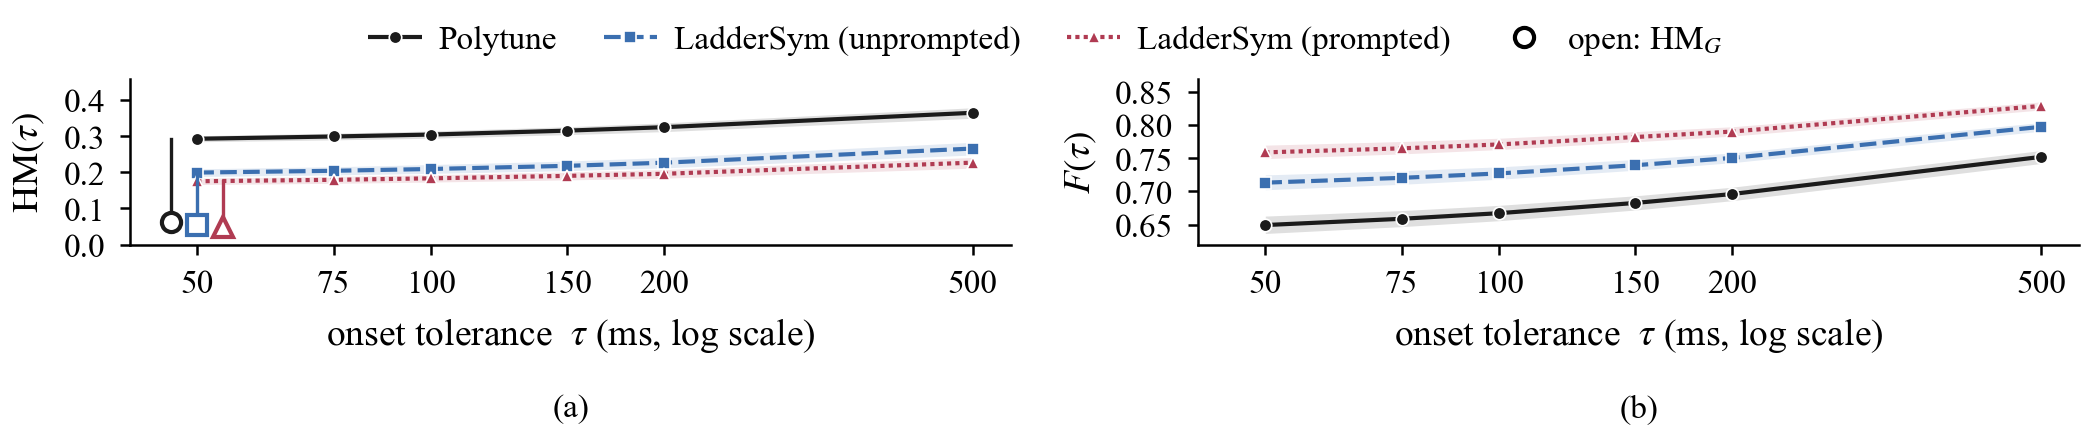
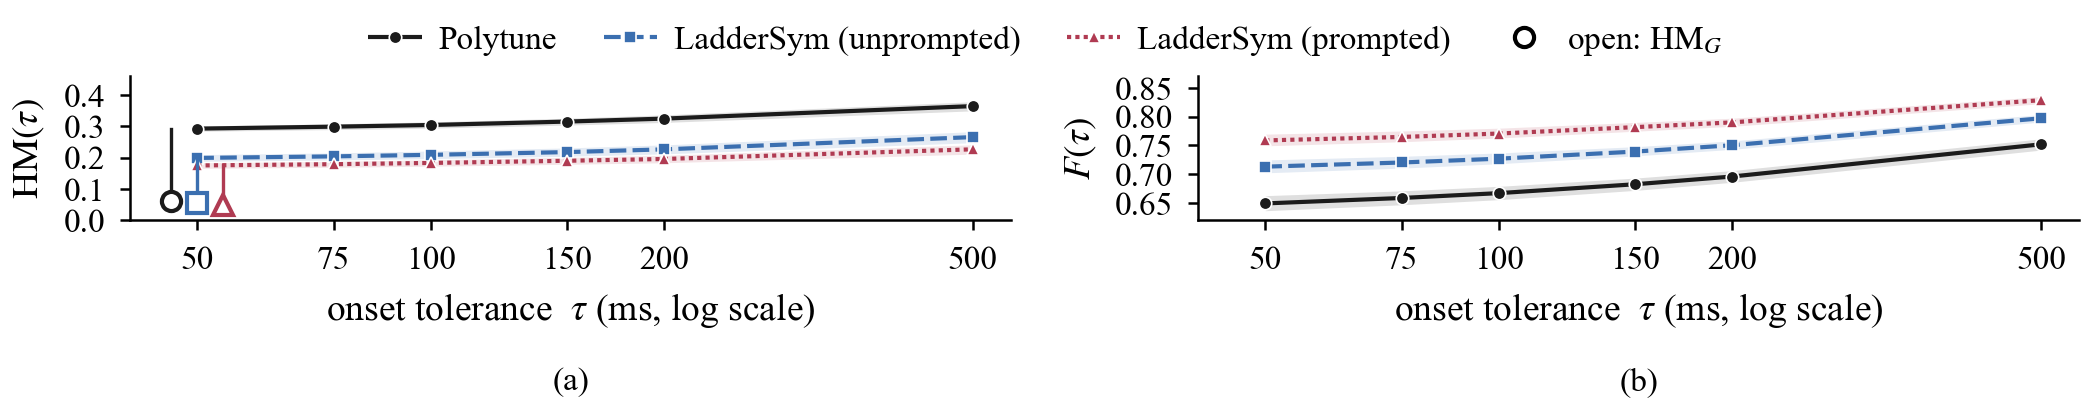
figs + gate: Fig. 2 at 1.36 in; pins for the 4.9x basis and Bernoulli flips

diff --git a/experiments/verify_shipped.py b/experiments/verify_shipped.py
@@ -1447,9 +1447,9 @@ def check_letter_prose() -> None:
         s_in("EI achieved mix", "$%.2f/%.2f/%.2f\\%%$ ($%s$"
              % (mix["substitution"] * 100, mix["insertion"] * 100,
                 mix["omission"] * 100, inj_str))
-        s_in("EI flippable population", "$q=%.1f$ of the $%s$ non-substitution label events"
-             % (val["_provenance"]["q_planted"],
-                "{:,}".format(val["flippable"]).replace(",", "{,}")))
+        s_in("EI flippable population", "each of the $%s$ non-substitution label events independently with probability $q=%.1f$"
+             % ("{:,}".format(val["flippable"]).replace(",", "{,}"),
+                val["_provenance"]["q_planted"]))
         s_in("EI planted flips", "planting $%s$ misclassifications"
              % "{:,}".format(val["planted_flips"]).replace(",", "{,}"))
         n_nonsub = summ["totals"]["ins"] + summ["totals"]["om"] + 2 * summ["totals"]["neg"]
@@ -1588,7 +1588,8 @@ def check_letter_prose() -> None:
     # pre-collapse reference label events, EI over E (the basis the letter names)
     dens = val["n_ref_events"] / (45367 + 12258)
     assert_in("EI/E reference-label ratio",
-              "and $%.1f\\times$ as many reference label events" % dens)
+              "and $%.1f\\times$ as many pre-collapse reference label events as MAESTRO-E ($%s$ vs $%s$)"
+              % (dens, "{:,}".format(val["n_ref_events"]).replace(",", "{,}"), "{:,}".format(45367 + 12258).replace(",", "{,}")))
     ap_ = _load(os.path.join(HERE, "results", "cluster", "anchor_pitch_sensitivity.json"))
     semi = [100 * ap_[st]["unfounded_share"]["semitone"] for st in stems]
     octv = [100 * ap_[st]["unfounded_share"]["octave"] for st in stems]

diff --git a/experiments/figs/fig2_measured.py b/experiments/figs/fig2_measured.py
@@ -107,7 +107,7 @@ def panel_loc(ax) -> None:
 
 
 def main() -> None:
-    fig, axes = plt.subplots(1, 2, figsize=(S.COL_DOUBLE, 1.45))
+    fig, axes = plt.subplots(1, 2, figsize=(S.COL_DOUBLE, 1.36))
     for ax in axes:
         # the axes background patch defaults to edgecolor "none", which the PDF
         # backend writes as a stroke alpha of 0 (an ExtGState IEEE FG-026 rejects)
